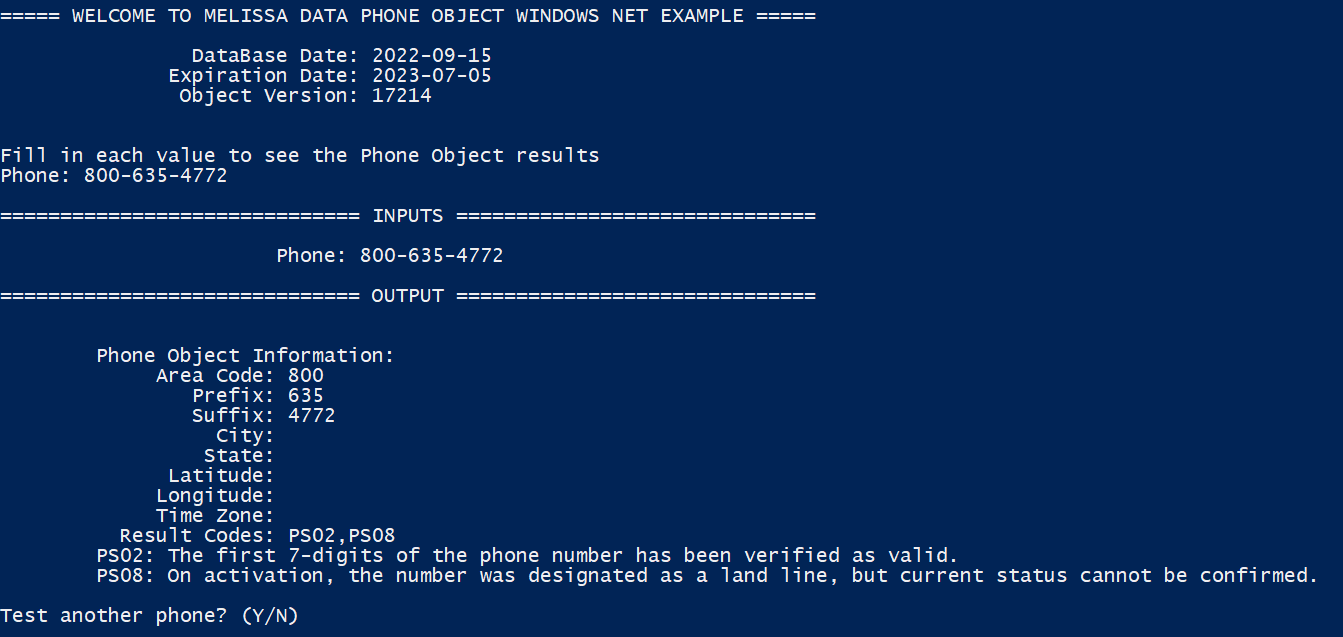
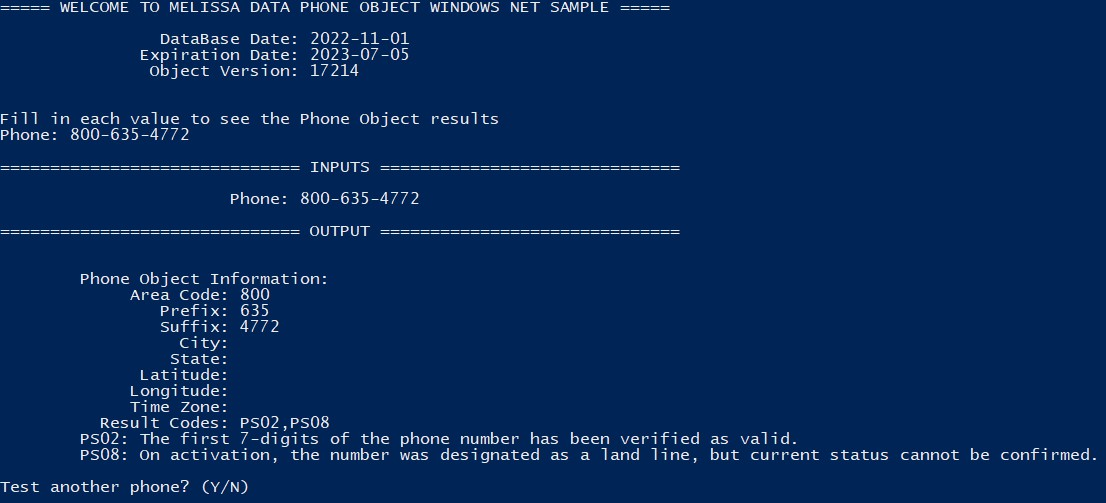
Commit C# Dotnet sample code for Phone Object with .NET 6.0

diff --git a/MelissaDataPhoneObjectWindowsNETSample/Program.cs b/MelissaDataPhoneObjectWindowsNETSample/Program.cs
@@ -5,7 +5,7 @@ using System.IO;
 using System.Reflection;
 using MelissaData;
 
-namespace MelissaDataPhoneObjectWindowsNETExample
+namespace MelissaDataPhoneObjectWindowsNETSample
 {
   class Program
   {
@@ -50,7 +50,7 @@ namespace MelissaDataPhoneObjectWindowsNETExample
 
     static void RunAsConsole(string license, string testPhone, string dataPath)
     {
-      Console.WriteLine("\n\n===== WELCOME TO MELISSA DATA PHONE OBJECT WINDOWS NET EXAMPLE =====\n");
+      Console.WriteLine("\n\n===== WELCOME TO MELISSA DATA PHONE OBJECT WINDOWS NET SAMPLE =====\n");
 
       PhoneObject phoneObject = new PhoneObject(license, dataPath);
 
@@ -73,7 +73,6 @@ namespace MelissaDataPhoneObjectWindowsNETExample
           Console.CursorTop -= 1;
           Console.CursorLeft = 7;
           dataContainer.Phone = Console.ReadLine();
-
         }
         else
         {
@@ -111,12 +110,9 @@ namespace MelissaDataPhoneObjectWindowsNETExample
         //Console.WriteLine($"\t  Country Code: {phoneObject.mdPhoneObj.GetCountryCode()}");
         //Console.WriteLine($"\t      Distance: {phoneObject.mdPhoneObj.GetDistance()}");
 
-
         String[] rs = dataContainer.ResultCodes.Split(',');
         foreach (String r in rs)
           Console.WriteLine($"        {r}: {phoneObject.mdPhoneObj.GetResultCodeDescription(r, mdPhone.ResultCdDescOpt.ResultCodeDescriptionLong)}");
-
-
 
         bool isValid = false;
         if (!string.IsNullOrEmpty(testPhone))
@@ -148,11 +144,9 @@ namespace MelissaDataPhoneObjectWindowsNETExample
           }
         }
       }
-
       Console.WriteLine("\n============ THANK YOU FOR USING MELISSA DATA NET OBJECT ===========\n");
     }
   }
-
 
   class PhoneObject
   {
@@ -168,21 +162,7 @@ namespace MelissaDataPhoneObjectWindowsNETExample
       mdPhoneObj.SetLicenseString(license);
       dataFilePath = dataPath;
 
-      /**
-       * DatabaseDate is the date of your data files. The data files should be one month behind the DQT release.  
-       * If you are using the 2020-10-15 release, the DatabaseDate should be 2020-09-15.
-       * 
-       * If you see a different date either download the new data files or use the Melissa Updater program to
-       * update your data files. 
-       * 
-       * If 1970-00-00 is the DatabaseDate, the Phone Object was unable to reach the data files.
-       * 
-       * ---------------------------READING THIS MAY SAVE YOU HOURS OF YOUR TIME-------------------------------
-       * If the DatabaseDate is not consistent with the data files and your are having issues getting results
-       * using mdPhone, it is likely a license string issue and yours may have expired.
-       */
-
-
+      // If you see a different date than expected, check your license string and either download the new data files or use the Melissa Updater program to update your data files.  
       mdPhone.ProgramStatus pStatus = mdPhoneObj.Initialize(dataFilePath);
 
       if (pStatus != mdPhone.ProgramStatus.ErrorNone)
@@ -196,11 +176,10 @@ namespace MelissaDataPhoneObjectWindowsNETExample
       Console.WriteLine($"              Expiration Date: {mdPhoneObj.GetLicenseExpirationDate()}");
 
       /**
-       * This number should match with file properties of the mdPhone.dll File Version.
+       * This number should match with the file properties of the Melissa Data Object binary file.
        * If TEST appears with the build number, there may be a license key issue.
        */
       Console.WriteLine($"               Object Version: {mdPhoneObj.GetBuildNumber()}\n");
-
     }
 
     //This will call the lookup function to process the input phone as well as generate the result codes
@@ -216,11 +195,10 @@ namespace MelissaDataPhoneObjectWindowsNETExample
 
       // ResultsCodes explain any issues phone object has with the object.
       // List of result codes for Phone object
-      // http://wiki.melissadata.com/index.php?title=Result_Code_Details#Phone_Object
+      // https://wiki.melissadata.com/?title=Result_Code_Details#Phone_Object
     }
-
-
   }
+
   public class DataContainer
   {
     public string Phone { get; set; }

diff --git a/README.md b/README.md
@@ -1,8 +1,8 @@
-# Melissa Data Phone Object Windows Net Example
+# Melissa Data Phone Object Windows Net Sample
 
 ## Purpose
 
-This is an example of the Melissa Data Phone Object using C#
+This is a sample of the Melissa Data Phone Object using C#
 
 The console will ask the user for:
 
@@ -22,9 +22,9 @@ And return
 
 ## Tested Environments
 
-- Windows 64-bit .NET Core 3.1 and .NET 5.0
+- Windows 64-bit .NET 6.0, .NET 5.0, .NET Core 3.1
 - Powershell 5.1
-- Melissa data files for 2022-11
+- Melissa data files for 2022-12
 
 ## Required File(s) and Programs
 
@@ -42,28 +42,28 @@ This is the c++ code of the Melissa Data Object.
 ## Getting Started
 These instructions will get you a copy of the project up and running on your local machine for development and testing purposes.
 
-This project is compatible with both .NET Core 3.1 and .NET 5.0. If you would like to run this project for .NET 5.0, proceed with the following procedures but check for and download .NET 5.0 instead.
+This project is compatible with .NET 6.0, .NET 5.0, and .NET Core 3.1. If you would like to run this project for any other version besides .NET 6.0, proceed with the following procedures but check for and download your desired .NET version.
 
 #### Install the Dotnet Core SDK
-Before starting, make sure that the .NET Core 3.1 SDK has been correctly installed on your machine (If you have Visual Studio installed, you most likely have it already). If you are unsure, you can check by opening a command prompt window and typing the following:
+Before starting, make sure that the .NET 6.0 SDK has been correctly installed on your machine (If you have Visual Studio installed, you most likely have it already). If you are unsure, you can check by opening a command prompt window and typing the following:
 
 `dotnet --list-sdks`
 
-If the .NET Core 3.1 SDK is already installed, you should see it in the following list:
+If the .NET 6.0 SDK is already installed, you should see it in the following list:
 
 ![alt text](/screenshots/dotnet_output.png)
 
-As long as the above list contains version `3.1.xxx` (underlined in red), then you can skip to the next step. If your list does not contain version 3.1, or you get any kind of error message, then you will need to download and install the .NET Core 3.1 SDK from the Microsoft website.
+As long as the above list contains version `6.0.xxx` (underlined in red), then you can skip to the next step. If your list does not contain version 6.0, or you get any kind of error message, then you will need to download and install the .NET 6.0 SDK from the Microsoft website.
 
 To download, follow this link: https://dotnet.microsoft.com/en-us/download/dotnet
 
-Select `.NET Core 3.1` and you will be navigated to the download page.
+Select `.NET 6.0` and you will be navigated to the download page.
 
 Click and download the `x64` SDK installer for your operating system.
 
 (IMPORTANT: Make sure you download the SDK, NOT the runtime. the SDK contains both the runtime as well as the tools needed to build the project.)
 
-![alt text](/screenshots/.net3.1.JPG)
+![alt text](/screenshots/net6.png)
 
 Once clicked, your web browser will begin downloading an installer for the SDK. Run the installer and follow all of the prompts to complete the installation (your computer may ask you to restart before you can continue). Once all of that is done, you should be able to verify that the SDK is installed with the `dotnet --list-sdks` command.
 
@@ -99,21 +99,22 @@ Melissa Updater is a CLI application allowing the user to update their Melissa a
 	- It will handle all of the data download/path and dll(s) for you. 
 2.  If you already have the latest DQS Release (ZIP), you can find the data file(s) and dll(s) in there
 	- Use the location of where you copied/installed the data and update the "$DataPath" variable in the powershell script.
-	- Copy all the dll(s) mentioned above into the `MelissaDataPhoneObjectWindowsNETExample` project folder.
+	- Copy all the dll(s) mentioned above into the `MelissaDataPhoneObjectWindowsNETSample` project folder.
 	
 ----------------------------------------
 
 #### Configure Target Framework
 
-Depending on your target .NET framework, you may need to configure the powershell script. In order to do this, open up the `MelissaDataPhoneObjectWindowsNETExample.ps1` for editing, proceed to the bottom of the script where you will find this section of code.
+Depending on your target .NET framework, you may need to configure the powershell script. In order to do this, open up the `MelissaDataPhoneObjectWindowsNETSample.ps1` for editing, proceed to the bottom of the script where you will find this section of code.
 
-Default set for .NET Core 3.1
+Default set for .NET 6.0
 ```
-#dotnet publish -f="net5.0" -c Release -o $ProjectPath\Build MelissaDataPhoneObjectWindowsNETExample\MelissaDataPhoneObjectWindowsNETExample.csproj
-dotnet publish -f="netcoreapp3.1" -c Release -o $ProjectPath\Build MelissaDataPhoneObjectWindowsNETExample\MelissaDataPhoneObjectWindowsNETExample.csproj
+dotnet publish -f="net6.0" -c Release -o $BuildPath MelissaDataPhoneObjectWindowsNETSample\MelissaDataPhoneObjectWindowsNETSample.csproj
+#dotnet publish -f="net5.0" -c Release -o $BuildPath MelissaDataPhoneObjectWindowsNETSample\MelissaDataPhoneObjectWindowsNETSample.csproj
+#dotnet publish -f="netcoreapp3.1" -c Release -o $BuildPath MelissaDataPhoneObjectWindowsNETSample\MelissaDataPhoneObjectWindowsNETSample.csproj
 ```
 
-The target framework is specified with the -f flag found in the command line. If you wish to use the .NET 5.0 framework, please uncomment the line containing that framework and comment out the line containing the .NET Core 3.1 framework (# to comment).
+The target framework is specified with the -f flag found in the command line. If you wish to use any version besides .NET 6.0, please uncomment the line containing that framework and comment out the line containing the .NET 6.0 framework (# to comment).
 
 ## Run Powershell Script
 Parameters:
@@ -127,25 +128,25 @@ Parameters:
 When you have modified the script to match your data location, let's run the script. There are two modes:
 - Interactive 
 
-	The script will prompt the user for a phone number, then use the provided number to test Phone object. For example:
+	The script will prompt the user for a phone number, then use the provided number to test Phone object.  For example:
 	```
-	$ .\MelissaDataPhoneObjectWindowsNETExample.ps1
+	$ .\MelissaDataPhoneObjectWindowsNETSample.ps1
 	```
     For quiet mode:
     ```
-    $ .\MelissaDataPhoneObjectWindowsNETExample.ps1 -quiet
+    $ .\MelissaDataPhoneObjectWindowsNETSample.ps1 -quiet
     ```
 - Command Line 
 
 	You can pass a phone number in ```-phone``` parameter and a license string in ```-license``` parameter to test Phone object. For example:
 	```
-    $ .\MelissaDataPhoneObjectWindowsNETExample.ps1 -phone "800-635-4772" 
-    $ .\MelissaDataPhoneObjectWindowsNETExample.ps1 -phone "800-635-4772" -license "<your_license_string>"
+    $ .\MelissaDataPhoneObjectWindowsNETSample.ps1 -phone "800-635-4772" 
+    $ .\MelissaDataPhoneObjectWindowsNETSample.ps1 -phone "800-635-4772" -license "<your_license_string>"
     ```
 	For quiet mode:
     ```
-    $ .\MelissaDataPhoneObjectWindowsNETExample.ps1 -phone "800-635-4772" -quiet
-    $ .\MelissaDataPhoneObjectWindowsNETExample.ps1 -phone "800-635-4772" -license "<your_license_string>" -quiet
+    $ .\MelissaDataPhoneObjectWindowsNETSample.ps1 -phone "800-635-4772" -quiet
+    $ .\MelissaDataPhoneObjectWindowsNETSample.ps1 -phone "800-635-4772" -license "<your_license_string>" -quiet
     ```
 This is the expected output from a successful setup for interactive mode:
 
@@ -154,7 +155,7 @@ This is the expected output from a successful setup for interactive mode:
     
 ## Troubleshooting
 
-Troubleshooting for errors found while running your example program.
+Troubleshooting for errors found while running your sample program.
 
 ### C# Errors:
 
